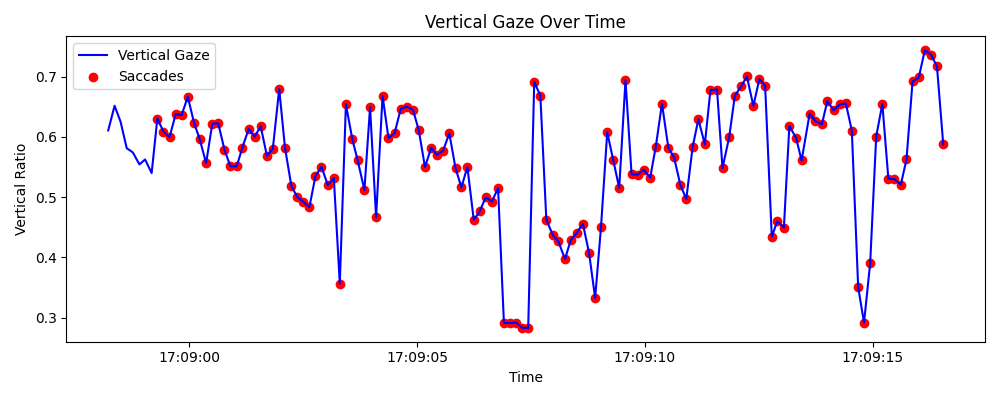
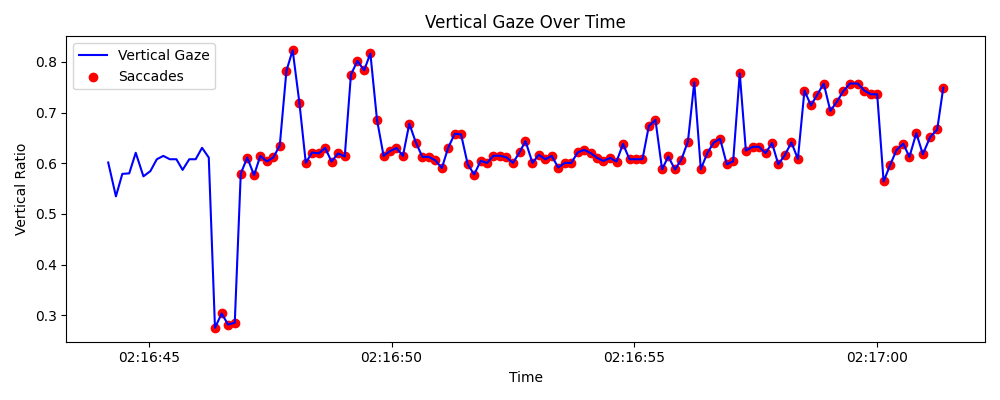
fixing vertical saccades and printing in terminal

diff --git a/gaze_tracking/psp_metrics.py b/gaze_tracking/psp_metrics.py
@@ -4,16 +4,18 @@ from collections import deque
 class PSPGazeMetrics:
     #raw gaze ratios and timesteps, detects vertical saccades and fixation jitters
     
-    def __init__(self, gaze, calib, history_len=30, vel_thresh=0.5, jitter_thresh=0.05):
-        self.gaze = gaze
-        self.calib = calib
-        self.buf = deque(maxlen=history_len)
-        self.vel_thresh = vel_thresh
-        self.jitter_thresh = jitter_thresh
-        
-        #store events
-        self.saccades = [] #stores start time, end time, amplitude, velocity
-        self.jitters = [] #stores time and magnitude 
+    def __init__(self, gaze, calib, history_len=30, vel_thresh=0.5, jitter_thresh=0.05, debug=False):
+         self.gaze = gaze
+         self.calib = calib
+         self.buf = deque(maxlen=history_len)
+         self.vel_thresh = vel_thresh
+         self.jitter_thresh = jitter_thresh
+         self.debug = debug
+
+         #store events
+         self.saccades = []
+         self.jitters = []
+
     
     def update (self, frame):
         #returns dict of current raw ratios and new PSP events by calling each video frame
@@ -36,23 +38,27 @@ class PSPGazeMetrics:
         }
         
     def _check_events(self, t, v):
-        if not self.buf:
-            return
-
         t0, _, v0 = self.buf[-1]
-
-        # Skip if last value was invalid
-        if v0 is None or v is None:
+        
+        if v is None or v0 is None:
             return
 
         dt = t - t0
         if dt <= 0:
-            return
+            return 
 
         vel = (v - v0) / dt
+        amp = abs(v - v0)
+
+        if self.debug:
+            print(f"[DEBUG] Δv={v - v0:.3f}, Δt={dt:.3f}, vel={vel:.3f}")
 
         if abs(vel) > self.vel_thresh:
-            amp = abs(v - v0)
             self.saccades.append((t0, t, amp, vel))
+            if self.debug:
+                print(f"[SACCADE DETECTED] amp={amp:.3f}, vel={vel:.3f}")
         elif abs(vel) > self.jitter_thresh:
             self.jitters.append((t, vel))
+            if self.debug:
+                print(f"[JITTER DETECTED] vel={vel:.3f}")
+

diff --git a/psp_demo.py b/psp_demo.py
@@ -6,7 +6,7 @@ from gaze_tracking.psp_metrics import PSPGazeMetrics
 
 calib = Calibration()
 gaze = GazeTracking()
-psp = PSPGazeMetrics(gaze, calib)
+psp = PSPGazeMetrics(gaze, calib, debug=True)
 
 cap = cv2.VideoCapture(0)
 csvfile = open('psp_data.csv', 'w', newline = '')
